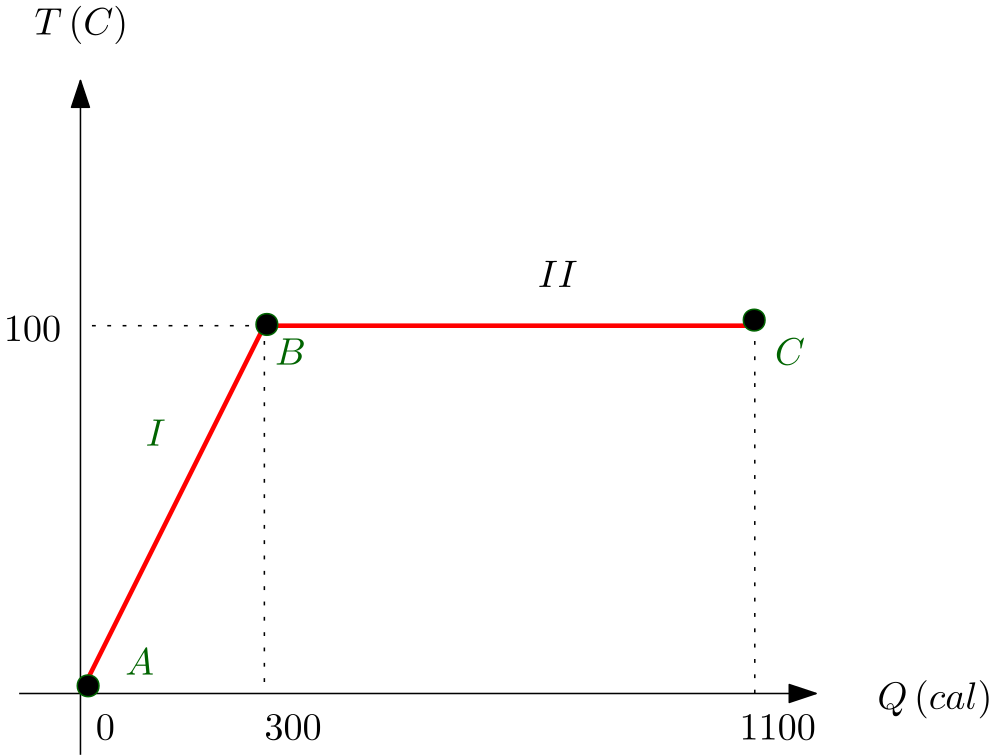
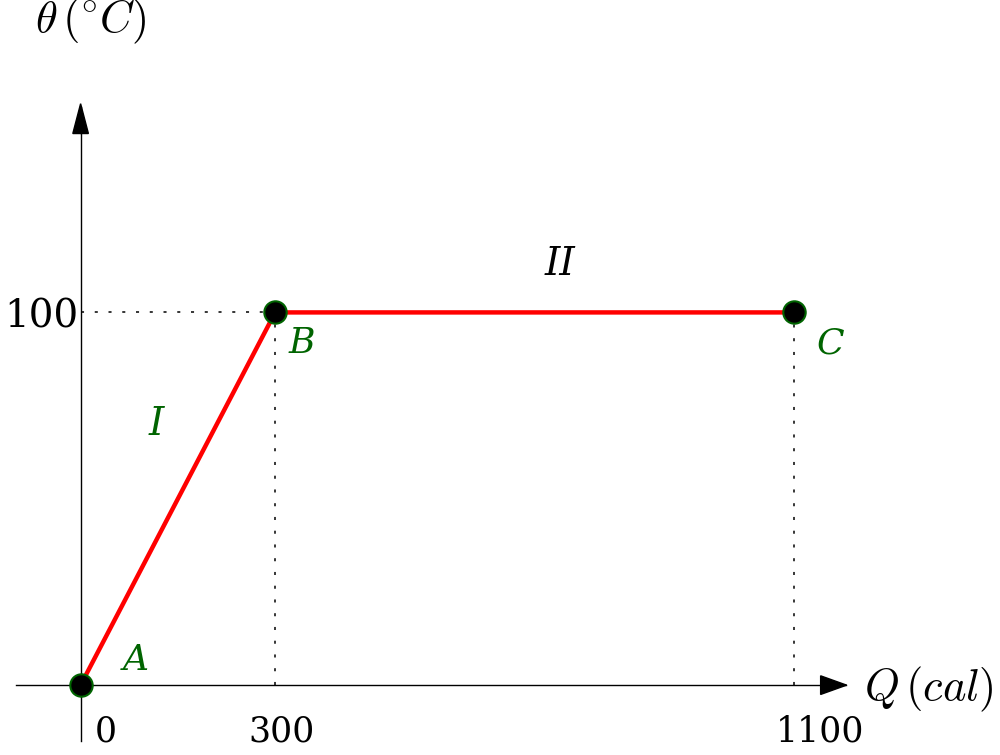
atualização 1 aula termo 6 - 21/05/2026

diff --git a/content/aulas/EM-Termo1/Aula-06/termo-aula-06.html b/content/aulas/EM-Termo1/Aula-06/termo-aula-06.html
@@ -1200,7 +1200,7 @@ de Oliveira
                 substância pura. A amostra recebe calor até atingir
                 <span class="math inline">\(100\,^\circ\text{C}\)</span>
                 e, depois, passa completamente da fase líquida para a
-                fase gasosa em <span
+                fase de vapor em <span
                 class="math inline">\(5\,\text{s}\)</span>.</p>
                 <figure>
                 <img src="images/fig-latente-1.png" style="width:80.0%"
@@ -1211,30 +1211,35 @@ de Oliveira
                 Fonte: elaboração própria.</figcaption>
                 </figure>
                 <p>Determine:</p>
-                <ul>
-                <li>o calor sensível recebido no trecho <span
-                class="math inline">\(A \rightarrow B\)</span>;</li>
-                <li>o calor latente recebido no trecho <span
-                class="math inline">\(B \rightarrow C\)</span>;</li>
-                <li>o calor latente de vaporização da substância;</li>
-                <li>a potência média da fonte térmica no processo
-                completo.</li>
-                </ul>
-                <p>Pelo gráfico, no trecho <span class="math inline">\(A
-                \rightarrow B\)</span>:</p>
+                <ol type="a">
+                <li><p>o calor sensível recebido no trecho <span
+                class="math inline">\(A \rightarrow B\)</span>;</p></li>
+                <li><p>o calor latente recebido no trecho <span
+                class="math inline">\(B \rightarrow C\)</span>;</p></li>
+                <li><p>o calor latente de vaporização da
+                substância;</p></li>
+                <li><p>a potência média da fonte térmica no processo
+                completo.</p></li>
+                <li><p>Pelo gráfico, no trecho <span
+                class="math inline">\(A \rightarrow B\)</span>:</p></li>
+                </ol>
                 <p><span class="math display">\[
                 Q_{AB} = 300\,\text{cal}
                 \]</span></p>
-                <p>No trecho <span class="math inline">\(B \rightarrow
-                C\)</span>:</p>
+                <ol start="2" type="a">
+                <li>No trecho <span class="math inline">\(B \rightarrow
+                C\)</span>:</li>
+                </ol>
                 <p><span class="math display">\[
                 Q_{BC} = 1100 - 300
                 \]</span></p>
                 <p><span class="math display">\[
                 Q_{BC} = 800\,\text{cal}
                 \]</span></p>
-                <p>Como o trecho <span class="math inline">\(B
-                \rightarrow C\)</span> representa mudança de fase:</p>
+                <ol start="3" type="a">
+                <li>Como o trecho <span class="math inline">\(B
+                \rightarrow C\)</span> representa mudança de fase:</li>
+                </ol>
                 <p><span class="math display">\[
                 Q = mL
                 \]</span></p>
@@ -1247,9 +1252,11 @@ de Oliveira
                 <p><span class="math display">\[
                 L = 80\,\text{cal}/\text{g}
                 \]</span></p>
-                <p>O calor total recebido é <span
+                <ol start="4" type="a">
+                <li>O calor total recebido é <span
                 class="math inline">\(1100\,\text{cal}\)</span>.
-                Convertendo para joules:</p>
+                Convertendo para joules:</li>
+                </ol>
                 <p><span class="math display">\[
                 Q_{\text{total}} = 1100 \cdot 4{,}2
                 \]</span></p>
@@ -1292,18 +1299,21 @@ de Oliveira
                 própria.</figcaption>
                 </figure>
                 <p>Determine:</p>
-                <ul>
+                <ol type="a">
                 <li>a temperatura inicial <span
                 class="math inline">\(T_A\)</span>;</li>
                 <li>a temperatura final <span
                 class="math inline">\(T_D\)</span>;</li>
                 <li>o calor latente de fusão da substância.</li>
-                </ul>
-                <p>No trecho <span class="math inline">\(A \rightarrow
+                </ol>
+                <p>Respostas:</p>
+                <ol type="a">
+                <li>No trecho <span class="math inline">\(A \rightarrow
                 B\)</span>, a substância recebe <span
                 class="math inline">\(500\,\text{cal}\)</span> e chega a
                 <span
-                class="math inline">\(0\,^\circ\text{C}\)</span>:</p>
+                class="math inline">\(0\,^\circ\text{C}\)</span>:</li>
+                </ol>
                 <p><span class="math display">\[
                 Q = mc\Delta\theta
                 \]</span></p>
@@ -1316,8 +1326,10 @@ de Oliveira
                 <p><span class="math display">\[
                 T_A = -20\,^\circ\text{C}
                 \]</span></p>
-                <p>No trecho <span class="math inline">\(C \rightarrow
-                D\)</span>, a substância recebe:</p>
+                <ol start="2" type="a">
+                <li>No trecho <span class="math inline">\(C \rightarrow
+                D\)</span>, a substância recebe:</li>
+                </ol>
                 <p><span class="math display">\[
                 Q_{CD} = 6000 - 4500
                 \]</span></p>
@@ -1331,8 +1343,10 @@ de Oliveira
                 <p><span class="math display">\[
                 T_D = 30\,^\circ\text{C}
                 \]</span></p>
-                <p>No trecho <span class="math inline">\(B \rightarrow
-                C\)</span>, ocorre a fusão:</p>
+                <ol start="3" type="a">
+                <li>No trecho <span class="math inline">\(B \rightarrow
+                C\)</span>, ocorre a fusão:</li>
+                </ol>
                 <p><span class="math display">\[
                 Q_{BC} = 4500 - 500
                 \]</span></p>
@@ -1613,39 +1627,41 @@ de Oliveira
                 O gráfico a seguir representa o aquecimento de <span
                 class="math inline">\(10\,\text{g}\)</span> de uma
                 substância pura. A amostra passa completamente da fase
-                líquida para a fase gasosa em <span
+                líquida para a fase de vapor em <span
                 class="math inline">\(5\,\text{s}\)</span>.
                 </dd>
                 </dl>
                 <figure>
-                <img src="images/fig-latente-1.png" style="width:80.0%"
-                alt="Gráfico de aquecimento com vaporização a 100\,^\circ\text{C}. Fonte: elaboração própria." />
+                <img src="images/fig-latente-1-exercicio.png"
+                style="width:80.0%"
+                alt="Gráfico de aquecimento com vaporização a 100\,^\circ\text{C}, em versão alternativa para o exercício. Fonte: elaboração própria." />
                 <figcaption aria-hidden="true">Gráfico de aquecimento
                 com vaporização a <span
-                class="math inline">\(100\,^\circ\text{C}\)</span>.
-                Fonte: elaboração própria.</figcaption>
+                class="math inline">\(100\,^\circ\text{C}\)</span>, em
+                versão alternativa para o exercício. Fonte: elaboração
+                própria.</figcaption>
                 </figure>
                 <p>Com base no gráfico, o calor latente de vaporização
                 da substância e a potência média da fonte térmica são,
                 respectivamente:</p>
                 <ol type="a">
                 <li><span
-                class="math inline">\(80\,\text{cal}/\text{g}\)</span> e
-                <span class="math inline">\(924\,\text{W}\)</span></li>
+                class="math inline">\(90\,\text{cal}/\text{g}\)</span> e
+                <span class="math inline">\(1092\,\text{W}\)</span></li>
                 <li><span
-                class="math inline">\(30\,\text{cal}/\text{g}\)</span> e
-                <span class="math inline">\(252\,\text{W}\)</span></li>
+                class="math inline">\(40\,\text{cal}/\text{g}\)</span> e
+                <span class="math inline">\(336\,\text{W}\)</span></li>
                 <li><span
-                class="math inline">\(110\,\text{cal}/\text{g}\)</span>
+                class="math inline">\(130\,\text{cal}/\text{g}\)</span>
                 e <span
-                class="math inline">\(924\,\text{W}\)</span></li>
+                class="math inline">\(1092\,\text{W}\)</span></li>
                 <li><span
-                class="math inline">\(80\,\text{cal}/\text{g}\)</span> e
-                <span class="math inline">\(220\,\text{W}\)</span></li>
+                class="math inline">\(90\,\text{cal}/\text{g}\)</span> e
+                <span class="math inline">\(756\,\text{W}\)</span></li>
                 <li><span
-                class="math inline">\(800\,\text{cal}/\text{g}\)</span>
+                class="math inline">\(900\,\text{cal}/\text{g}\)</span>
                 e <span
-                class="math inline">\(4620\,\text{W}\)</span></li>
+                class="math inline">\(5460\,\text{W}\)</span></li>
                 </ol>
                 <dl>
                 <dt>6.9)</dt>
@@ -1660,10 +1676,12 @@ de Oliveira
                 </dd>
                 </dl>
                 <figure>
-                <img src="images/fig-latente-3.png" style="width:80.0%"
-                alt="Gráfico de aquecimento com fusão no patamar entre B e C. Fonte: elaboração própria." />
+                <img src="images/fig-latente-3-exercicio.png"
+                style="width:80.0%"
+                alt="Gráfico de aquecimento com fusão no patamar entre B e C, em versão alternativa para o exercício. Fonte: elaboração própria." />
                 <figcaption aria-hidden="true">Gráfico de aquecimento
-                com fusão no patamar entre B e C. Fonte: elaboração
+                com fusão no patamar entre B e C, em versão alternativa
+                para o exercício. Fonte: elaboração
                 própria.</figcaption>
                 </figure>
                 <p>As temperaturas nos pontos <span
@@ -1672,17 +1690,17 @@ de Oliveira
                 respectivamente:</p>
                 <ol type="a">
                 <li><span
-                class="math inline">\(-10\,^\circ\text{C}\)</span> e
+                class="math inline">\(-30\,^\circ\text{C}\)</span> e
                 <span
-                class="math inline">\(20\,^\circ\text{C}\)</span></li>
-                <li><span
-                class="math inline">\(-20\,^\circ\text{C}\)</span> e
-                <span
-                class="math inline">\(40\,^\circ\text{C}\)</span></li>
+                class="math inline">\(30\,^\circ\text{C}\)</span></li>
                 <li><span
                 class="math inline">\(-20\,^\circ\text{C}\)</span> e
                 <span
                 class="math inline">\(30\,^\circ\text{C}\)</span></li>
+                <li><span
+                class="math inline">\(-30\,^\circ\text{C}\)</span> e
+                <span
+                class="math inline">\(20\,^\circ\text{C}\)</span></li>
                 <li><span
                 class="math inline">\(0\,^\circ\text{C}\)</span> e <span
                 class="math inline">\(30\,^\circ\text{C}\)</span></li>
@@ -1699,10 +1717,12 @@ de Oliveira
                 </dd>
                 </dl>
                 <figure>
-                <img src="images/fig-latente-3.png" style="width:80.0%"
-                alt="Gráfico de aquecimento com fusão no patamar entre B e C. Fonte: elaboração própria." />
+                <img src="images/fig-latente-3-exercicio.png"
+                style="width:80.0%"
+                alt="Gráfico de aquecimento com fusão no patamar entre B e C, em versão alternativa para o exercício. Fonte: elaboração própria." />
                 <figcaption aria-hidden="true">Gráfico de aquecimento
-                com fusão no patamar entre B e C. Fonte: elaboração
+                com fusão no patamar entre B e C, em versão alternativa
+                para o exercício. Fonte: elaboração
                 própria.</figcaption>
                 </figure>
                 <ol type="a">
@@ -1715,7 +1735,7 @@ de Oliveira
                 fusão é <span
                 class="math inline">\(40\,\text{cal}/\text{g}\)</span>.</li>
                 <li>No trecho II ocorre fusão, com absorção de <span
-                class="math inline">\(4000\,\text{cal}\)</span>.</li>
+                class="math inline">\(3000\,\text{cal}\)</span>.</li>
                 <li>Entre <span class="math inline">\(C\)</span> e <span
                 class="math inline">\(D\)</span>, a substância permanece
                 sólida.</li>